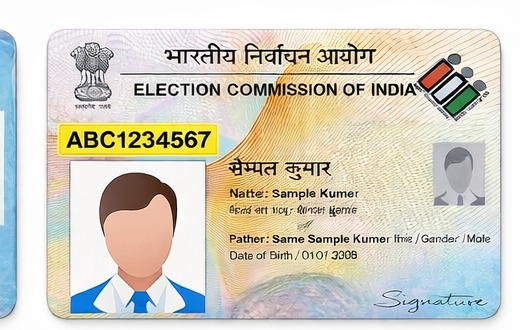
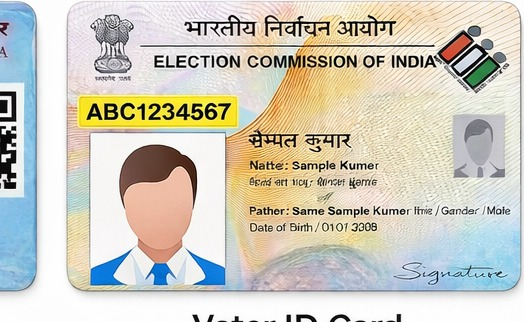
fix(verify): edge-to-edge re-crop of dummy ID images + larger rounded corners
PM: 'sabhi images me background me white space hai, edge to edge crop karo aur round corner karke center align karo'

- Rewrote crop logic with auto-trim: loose approx bounding box → getbbox() after diff-from-bg-color → tight trim
  * GST: 770x450 approx → 632x393 trimmed (removed ~138x57 background bleed)
  * Aadhaar: 760x405 → 617x369
  * PAN: 520x375 → 485x326
  * Voter: 560x370 → 524x322
- Saved new PNG/JPG files replacing previous loose crops

HTML/CSS:
- Image class: rounded-lg → rounded-xl (more prominent corner radius)
- Added subtle shadow-sm for depth
- Retained flex items-center + justify-center (images already center-aligned)
- Retained fixed 160px container height so all IDs appear at consistent size

diff --git a/screens/rapido-aadhaar-upload.html b/screens/rapido-aadhaar-upload.html
@@ -88,7 +88,7 @@
     <div class="bg-[#F8F8F8] rounded-xl px-3 py-2.5 mb-3">
       <div class="text-[10px] font-semibold text-[#1C1C1C] mb-2">Enter the highlighted number</div>
       <div class="flex items-center justify-center" style="height: 160px;">
-        <img id="ex-img" src="../assets/dummy-aadhaar.png" class="rounded-lg block" alt="ID preview" style="max-height: 100%; max-width: 100%;"/>
+        <img id="ex-img" src="../assets/dummy-aadhaar.png" class="rounded-xl block shadow-sm" alt="ID preview" style="max-height: 100%; max-width: 100%;"/>
       </div>
     </div>
 
